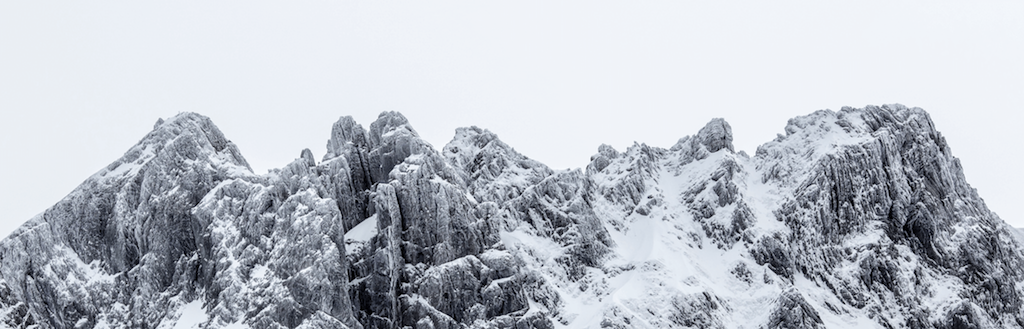
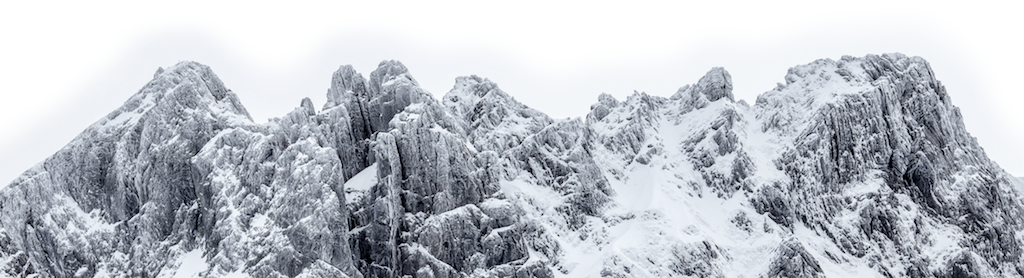
brush

diff --git a/index.html b/index.html
@@ -36,15 +36,22 @@
     html, body {
         min-height: 100%;
         background-color: #F3F6FA;
+        height: 100%;
+        margin: 0;
     }
 
     body {
 
+        background: url('/assets/img/header_bg.png') no-repeat center bottom fixed;
+        -webkit-background-size: contain;
+        -moz-background-size: contain;
+        -o-background-size: contain;
+        background-size: contain;
     }
 
-    .centered {
+    .landing_page_logo {
         position: fixed;
-        top: 50%;
+        top: 40%;
         left: 50%;
         /* bring your own prefixes */
         transform: translate(-50%, -50%);
@@ -55,16 +62,9 @@
 
 <body>
 
-<div class="centered">
-    <img class="" src="./assets/img/header_text.png"
-         style="max-width:512px; width:100%; margin:0 auto; display:block;">
-    <!--<h1 style="text-align: center; font-weight: 200;font-size: 4rem;">EP1, This August</h1>-->
-</div>
+<img class="landing_page_logo" src="/assets/img/header_text.png"
+     style="max-width:512px; width:100%; margin:0 auto; display:block;">
 
-<img src="./assets/img/header_bg.png" style="position: absolute;
-    bottom: 0;
-    width: 100%;
-    z-index: -1;">
 
 </body>
 
